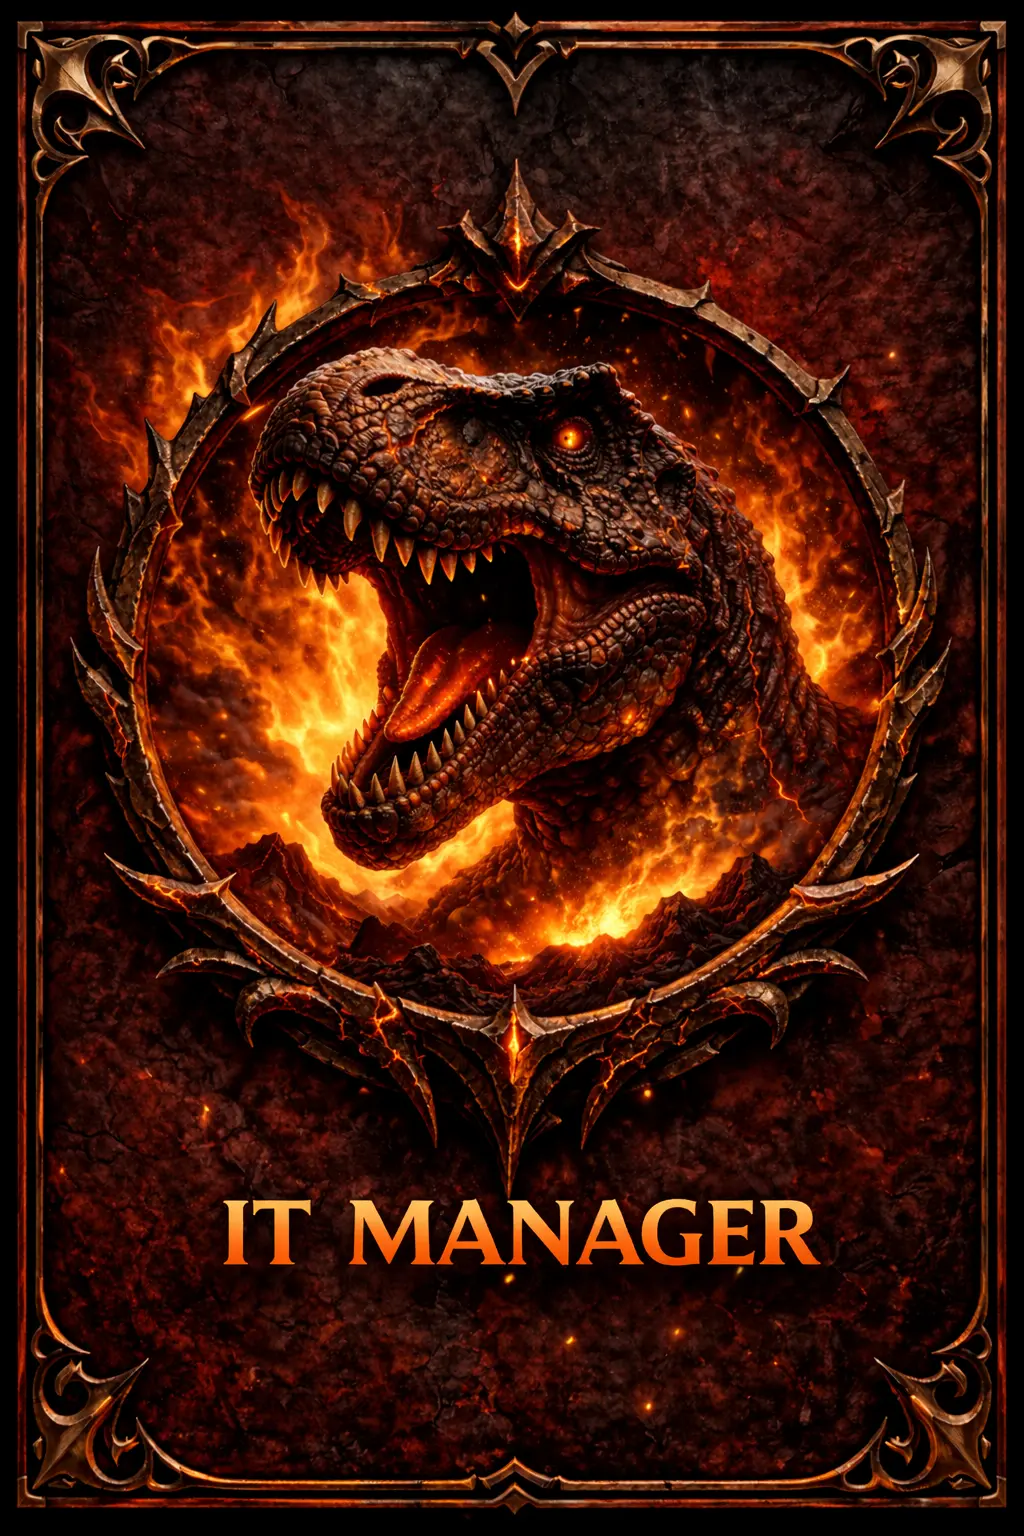
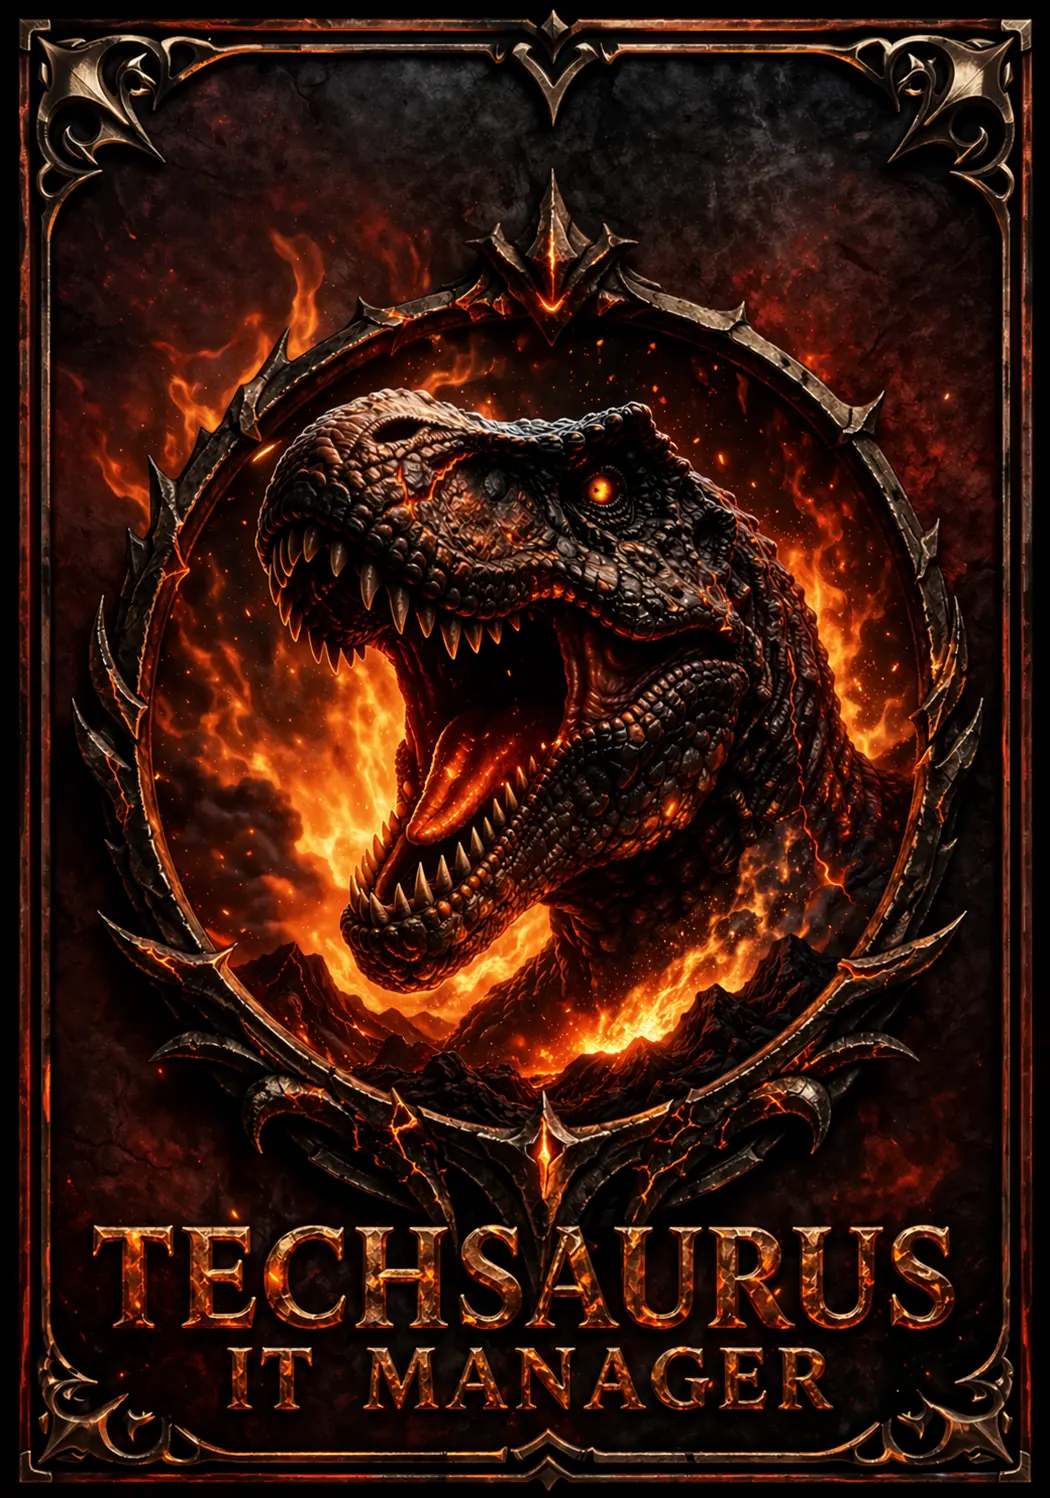
fixed 21-04

diff --git a/src/components/Footer.jsx b/src/components/Footer.jsx
@@ -1,5 +1,6 @@
 import React from 'react';
-import { Home, Calendar, Activity, Film, BookOpen, Users, MessageSquare } from 'lucide-react';
+import { Home, Calendar, Activity, Film, BookOpen, Users, MessageSquare, Mail, Phone, ShieldCheck, FileText } from 'lucide-react';
+
 import { useNavigate, useLocation } from 'react-router-dom';
 
 const Footer = () => {
@@ -44,13 +45,18 @@ const Footer = () => {
     { label: 'About', path: 'about', icon: Users },
   ];
 
+  const legalLinks = [
+    { label: 'Privacy Policy', path: 'privacy', icon: ShieldCheck },
+    { label: 'Terms & Conditions', path: 'terms', icon: FileText },
+  ];
+
   return (
     <footer className="bg-black text-white relative overflow-hidden pt-24 pb-12 border-t border-white/5 w-full uppercase" id="footer">
 
       {/* Decorative Hazard Stripe Top */}
       <div className="absolute top-0 left-0 w-full h-[6px] bg-[repeating-linear-gradient(45deg,#df1f26,#df1f26_10px,#000_10px,#000_20px)] opacity-40"></div>
 
-      <div className="container mx-auto px-6 relative z-10 md:pl-[11%]">
+      <div className="container mx-10 px-6 relative z-10 md:pl-[9%]">
         <div className="grid grid-cols-1 md:grid-cols-2 lg:grid-cols-12 gap-12 mb-20">
 
           {/* Section 1: InGen Corporate Overlay */}
@@ -64,7 +70,7 @@ const Footer = () => {
             </div>
 
             <p className="text-gray-500 text-[11px] leading-relaxed max-w-xs font-bold tracking-widest normal-case">
-              ALL BIOLOGICAL ASSETS ON THIS SERVER ARE PROTECTED BY THE INGEN SECURITY DIVISION. UNAUTHORIZED DATA EXTRACTION IS PUNISHABLE BY INTERNATIONAL MARITIME LAW.
+              ALL BIOLOGICAL ASSETS ON THIS SERVER ARE PROTECTED BY THE INOVEX SECURITY DIVISION. UNAUTHORIZED DATA EXTRACTION IS PUNISHABLE BY INTERNATIONAL MARITIME LAW.
             </p>
 
             {/* Diagnostic Terminal Panel */}
@@ -80,8 +86,9 @@ const Footer = () => {
             </div>
           </div>
 
-          {/* Section 2: Protocols & Resources */}
-          <div className="lg:col-span-5 grid grid-cols-2 gap-8">
+          {/* Section 2: Protocols, Resources & Legal */}
+          <div className="lg:col-span-5 grid grid-cols-2 lg:grid-cols-3 gap-8">
+
             <div className="space-y-8">
               <h3 className="text-[10px] font-black tracking-[0.5em] text-white/40 flex items-center gap-3">
                 <span className="w-6 h-[1px] bg-white/20"></span>
@@ -123,7 +130,28 @@ const Footer = () => {
                 ))}
               </ul>
             </div>
+            <div className="space-y-8">
+              <h3 className="text-[10px] font-black tracking-[0.5em] text-white/40 flex items-center gap-3">
+                <span className="w-6 h-[1px] bg-white/20"></span>
+                Legal
+              </h3>
+              <ul className="space-y-4">
+                {legalLinks.map((link) => (
+                  <li key={link.label}>
+                    <a
+                      href={`#${link.path}`}
+                      onClick={(e) => handleNavClick(e, link.path)}
+                      className="text-xs font-black tracking-widest text-gray-400 hover:text-red-500 transition-all flex items-center gap-3"
+                    >
+                      <link.icon className="w-3.5 h-3.5 opacity-40" />
+                      {link.label}
+                    </a>
+                  </li>
+                ))}
+              </ul>
+            </div>
           </div>
+
 
           {/* Section 3: Connectivity & Geolocation */}
           <div className="lg:col-span-3 space-y-8 lg:text-right flex flex-col items-start lg:items-end">
@@ -141,6 +169,18 @@ const Footer = () => {
                 </span>
               </div>
 
+              <div className="space-y-1 ">
+                <span className="text-[9px] font-black text-white/30 tracking-widest block uppercase">Contact InGen</span>
+                <a href="mailto:inovex2026@gmail.com" className="text-xs font-black tracking-widest text-white hover:text-red-500 transition-all flex items-center gap-2 lg:justify-end lowercase">
+                  <Mail className="w-3 h-3 opacity-40" />
+                  inovex2026@gmail.com
+                </a>
+                <div className="text-xs font-black tracking-widest text-white flex items-center gap-2 lg:justify-end">
+                  <Phone className="w-3 h-3 opacity-40" />
+                  [PHONE NUMBER]
+                </div>
+              </div>
+
               <div className="space-y-3">
                 <span className="text-[9px] font-black text-white/30 tracking-widest block uppercase">External Feed</span>
                 <div className="flex gap-4 lg:justify-end">
@@ -156,13 +196,14 @@ const Footer = () => {
                 </div>
               </div>
             </div>
+
           </div>
         </div>
 
         {/* Global Footer Meta */}
-        <div className="pt-12 border-t border-white/5 flex flex-col md:flex-row justify-between items-center gap-8 text-[10px] font-black tracking-[0.4em] text-white/20 md:pl-[15%]">
+        <div className="pt-12 border-t border-white/5 flex flex-col md:flex-row justify-between items-center gap-8 text-[10px] font-black tracking-[0.4em] text-white/20 md:pl-[1%]">
           <div className="flex items-center gap-4">
-            <span>© 2026 INOVEX / INGEN</span>
+            <span>© 2026 INOVEX</span>
             <span className="hidden md:block w-4 h-[1px] bg-white/10"></span>
             <span>ALL ASSETS SECURED</span>
           </div>

diff --git a/src/data/eventsData.js b/src/data/eventsData.js
@@ -1,7 +1,7 @@
 export const eventsData = {
   1: {
     id: 1,
-    title: "IT Manager",
+    title: "Techsaurus",
     category: "Technical",
     date: "March 15-17, 2026",
     time: "11:30 AM - 12:30 PM",
